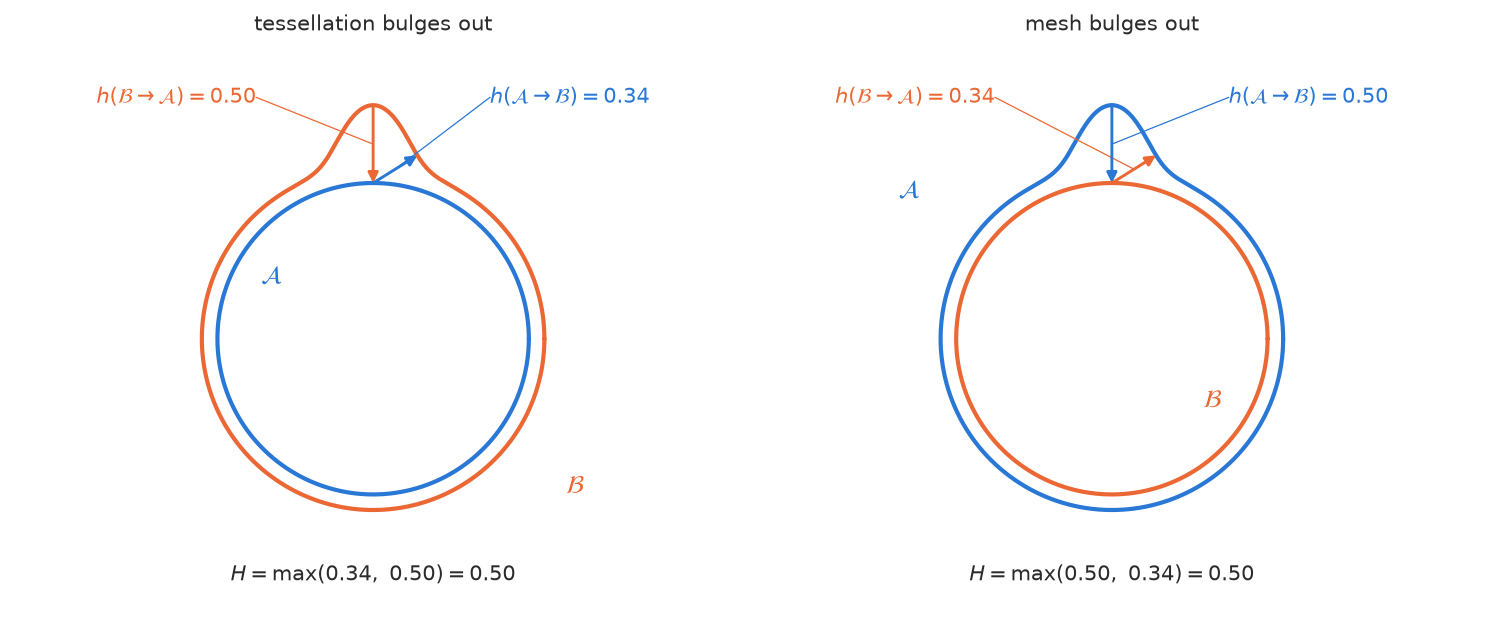
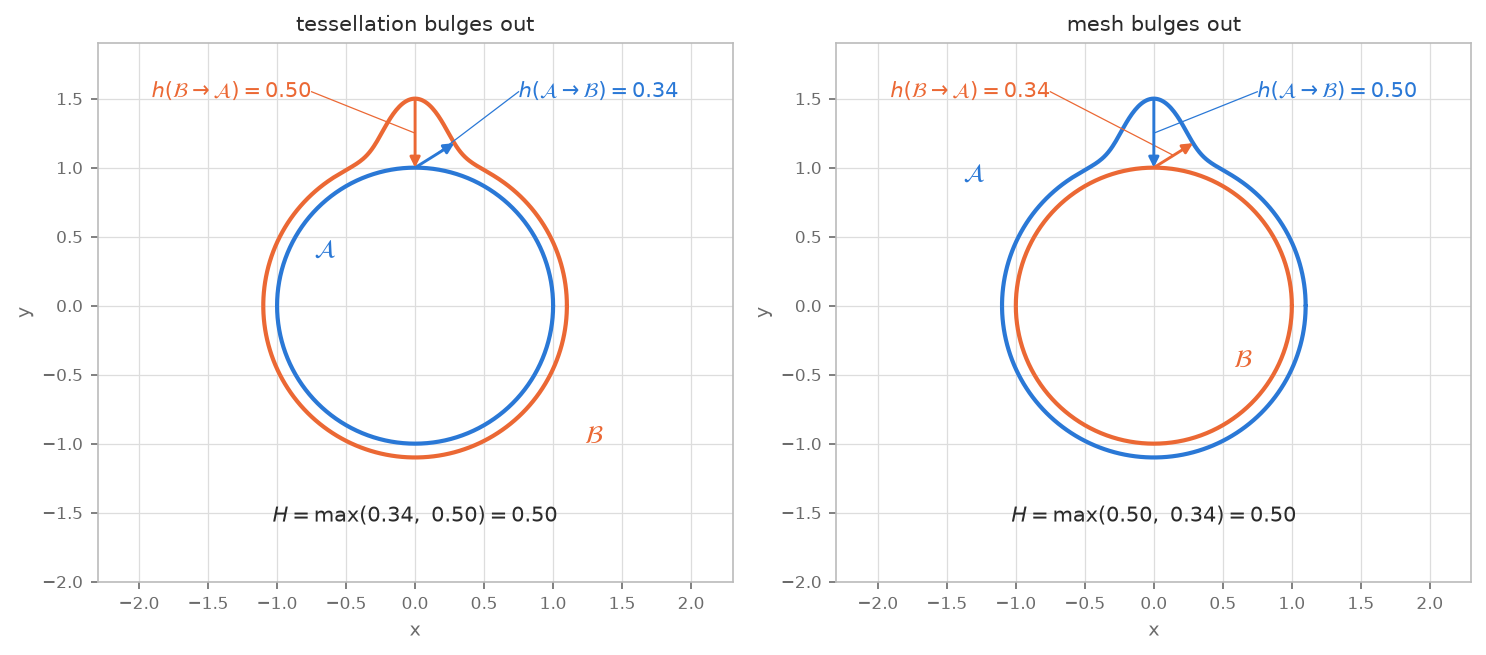
book: draw a grid on the circles figure (#761)
Both panels of Figure 15-1 now carry x and y axes with ticks every 0.5
and a light grid, like Figure 15-7. A new gridded() helper holds the
axis styling for both figures; the frame figure's PNG is unchanged.

diff --git a/book/theory/hausdorff/hausdorff_diagrams.py b/book/theory/hausdorff/hausdorff_diagrams.py
@@ -38,6 +38,20 @@ def blank(ax, title):
     ax.set_title(title, fontsize=10, color=INK)
 
 
+def gridded(ax, title, xticks, yticks):
+    ax.set_aspect("equal")
+    ax.set_title(title, fontsize=10, color=INK)
+    ax.set_xticks(xticks)
+    ax.set_yticks(yticks)
+    ax.grid(color="#dddddd", linewidth=0.6)
+    ax.set_axisbelow(True)
+    ax.set_xlabel("x", fontsize=9, color=MUTED)
+    ax.set_ylabel("y", fontsize=9, color=MUTED)
+    ax.tick_params(labelsize=8, colors=MUTED)
+    for spine in ax.spines.values():
+        spine.set_color("#bbbbbb")
+
+
 def arrow(ax, start, end, color=INK, width=1.2, style="-|>", linestyle="-"):
     ax.annotate(
         "",
@@ -386,7 +400,8 @@ def circles_figure():
         note(ax, (-b_label[0], -b_label[1]), r"$\mathcal{B}$", TESSELLATION, fontsize=12, ha="center", va="center")
         ax.set_xlim(-2.3, 2.3)
         ax.set_ylim(-1.8, 1.9)
-        blank(ax, title)
+        ticks = np.arange(-2.0, 2.01, 0.5)
+        gridded(ax, title, ticks, ticks[ticks <= 1.5])
     figure.tight_layout()
     figure.savefig(HERE / "hausdorff_circles.png", dpi=150, bbox_inches="tight")
     for (h_ab, h_ba), (_, _, title, _, _) in zip(values, cases):
@@ -416,17 +431,7 @@ def frame_figure():
         if surface is raw:
             arrow(ax, (1.0, 0.0), (3.0, 0.0), INK, width=1.0, style="<|-|>")
             note(ax, (2.0, 0.08), r"$H = 2$", INK, ha="center", va="bottom", fontsize=9)
-        ax.set_aspect("equal")
-        ax.set_title(title, fontsize=10, color=INK)
-        ax.set_xticks(range(-1, 4))
-        ax.set_yticks(range(-1, 2))
-        ax.grid(color="#dddddd", linewidth=0.6)
-        ax.set_axisbelow(True)
-        ax.set_xlabel("x", fontsize=9, color=MUTED)
-        ax.set_ylabel("y", fontsize=9, color=MUTED)
-        ax.tick_params(labelsize=8, colors=MUTED)
-        for spine in ax.spines.values():
-            spine.set_color("#bbbbbb")
+        gridded(ax, title, range(-1, 4), range(-1, 2))
     figure.tight_layout()
     figure.savefig(HERE / "hausdorff_frame.png", dpi=150)
     print(f"frame: mismatched H = {hausdorff(mesh, raw):.3f}, matched H = {hausdorff(mesh, transformed):.3f}")
